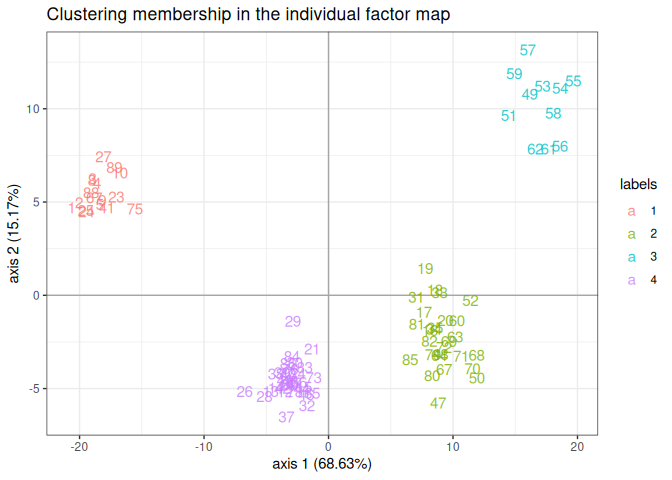
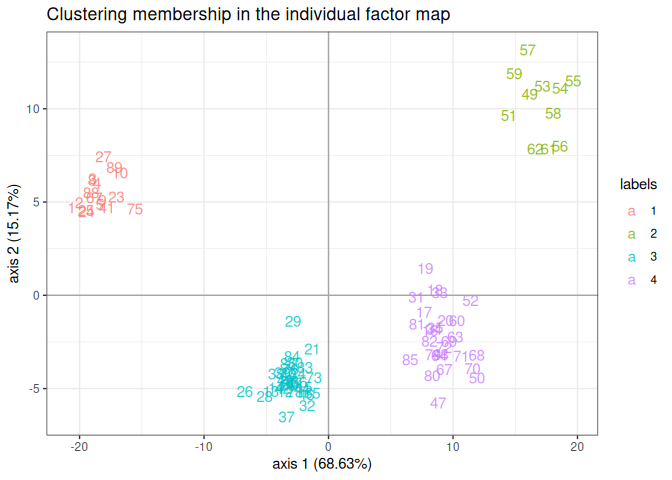
Re-render README after the igraph warning fix

diff --git a/README.md b/README.md
@@ -197,9 +197,6 @@ myNets <- PLNnetwork(Abundance ~ Depth + Temperature + offset(log(Offset)), data
 plot(getBestModel(myNets), remove.isolated = TRUE)
 ```
 
-    Warning: vertex attribute frame.color contains NAs. Replacing with default
-    value black
-
 ![](man/figures/README-plnnetwork-1.png)
 
 ### PLNmixture: model-based clustering
@@ -234,9 +231,9 @@ table(cluster = myMixture$memberships, zone = barents$zone)
            zone
     cluster North South
           1     1    17
-          2    21     6
-          3    11     0
-          4    11    22
+          2    11     0
+          3    11    22
+          4    21     6
 
 ## References
 